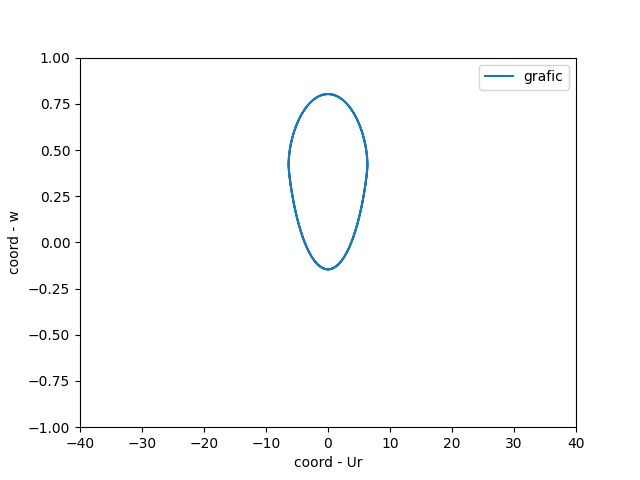
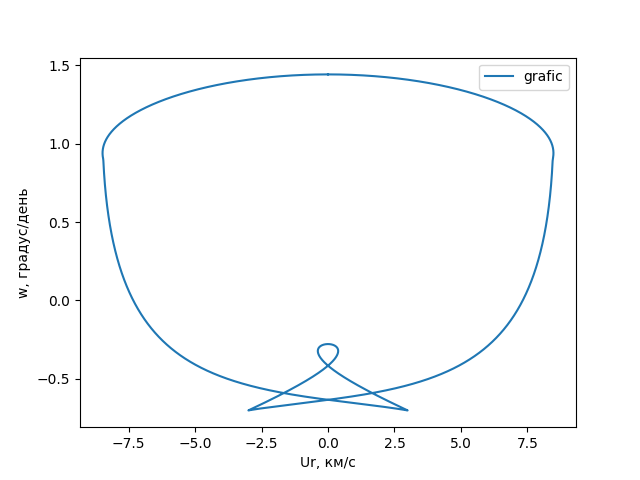
123

diff --git a/ellips.py b/ellips.py
@@ -3,16 +3,16 @@ import numpy as np
 
 M = 2*10**30                            # масса Солнца
 G = 6.67*10**(-11)                      # грав конст
-T1 = 3*365.26*86400                     # период обращения тела
+T1 = 1*365.26*86400                     # период обращения тела
 A1 = (G*M*T1**2/4/np.pi**2)**(1/3)      # большая полуось тела
-e = 0                                   # эксцентриситет тела
-alpha = 0*np.pi/180                     # угол между начальными положениями тела и Земли (тело в перицентре)
+e = 0.5                                  # эксцентриситет тела
+alpha = 180*np.pi/180                     # угол между начальными положениями тела и Земли (тело в перицентре)
 A2 = 1.496*10**11                       # большая полуось Земли
 T2 = 365.26*86400                       # период обращения Земли
 
 fig, ax = plt.subplots()
-ax.set_xlim(-40, 40)
-ax.set_ylim(-1, 1)
+#ax.set_xlim(-10, 10)
+#ax.set_ylim(-0.2, 0.6)
 
 def ellips_plotter(A1, T1, M, e, alpha, A2, T2):
     p1 = A1*(1-e**2)                                        # фокальный параметр тела
@@ -30,14 +30,14 @@ def ellips_plotter(A1, T1, M, e, alpha, A2, T2):
     psi = np.arcsin(np.sin(theta)*r1/L)                     # фазовый угол
     eps = np.arccos(Vr1/V1)                                 # угол между лучевой и полной тела
     i = np.pi/2 + psi - eps                                 # угол между полной и трансверсальной для Земли
-    gamma = np.arcsin(np.sin(theta)*A2/L)                    # элонгационный угол
-    Ut = V1*np.cos(i) - V2*np.cos(theta+psi)                # трансверсальная относительно Земли
+    gamma = np.arcsin(np.sin(theta)*A2/L)                   # элонгационный угол
+    Ut = V1*np.cos(i) - V2*np.cos(gamma)                # трансверсальная относительно Земли
     Ur = (V1*np.sin(i) - V2*np.sin(gamma))/1000             # лучевая относительно Земли
     w = Ut/r1 * 180/np.pi * 86400                           # угловая относительно Земли
 
     plt.plot(Ur, w, label='grafic')
-    plt.xlabel('coord - Ur')
-    plt.ylabel('coord - w')
+    plt.xlabel('Ur, км/с')
+    plt.ylabel('w, градус/день')
     plt.legend()
     plt.savefig('ellips.png')
 	
